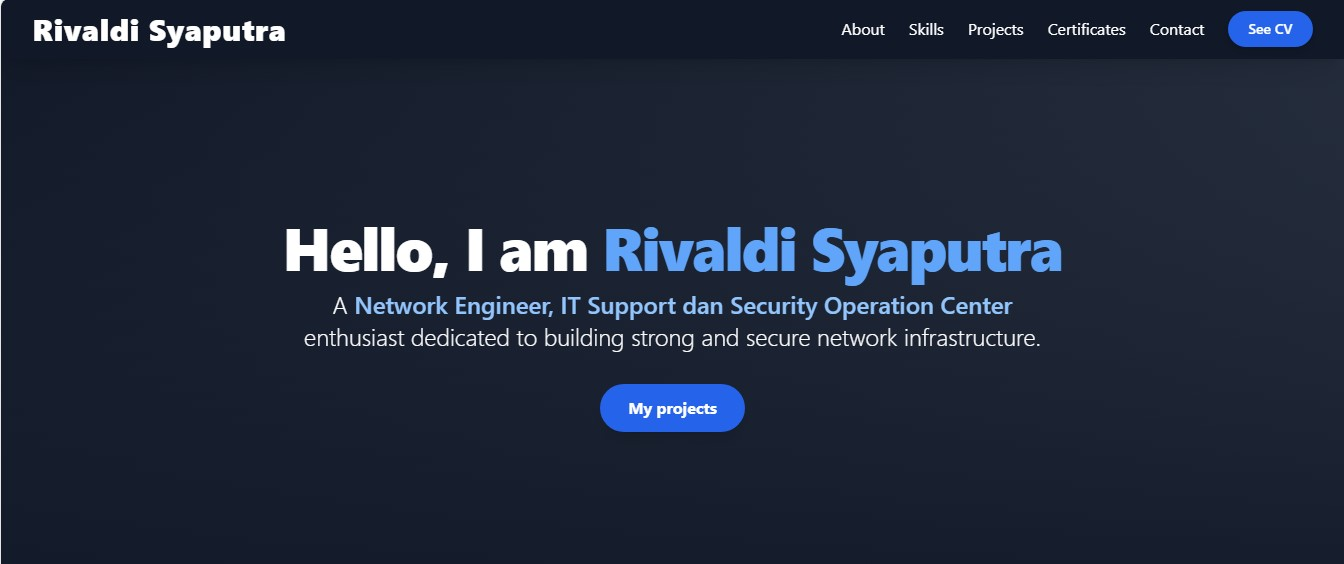
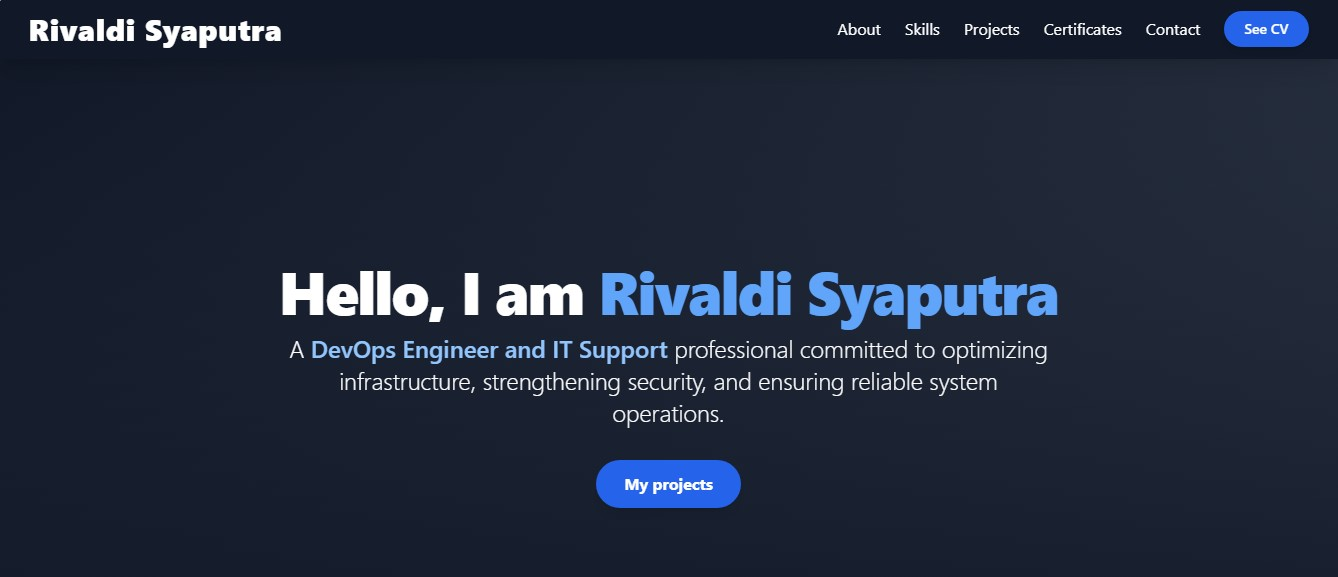
update portofolio

diff --git a/index.html b/index.html
@@ -99,7 +99,7 @@
                     Hello, I am <span class="text-blue-400 block sm:inline-block mt-2 sm:mt-0">Rivaldi Syaputra</span>
                 </h1>
                 <p class="text-xl md:text-2xl font-light mb-8 max-w-3xl animate-fadeInUp" style="animation-delay: 0.3s;">
-                    A  <span class="font-semibold text-blue-300">Network Engineer, IT Support dan Security Operation Center</span> enthusiast dedicated to building strong and secure network infrastructure.
+                    A  <span class="font-semibold text-blue-300">DevOps Engineer and IT Support </span> professional committed to optimizing infrastructure, strengthening security, and ensuring reliable system operations.
                 </p>
                 <a href="#projects" class="bg-blue-600 text-white text-base px-7 py-3 rounded-full font-bold hover:bg-blue-700 transition-all duration-300 transform hover:scale-105 shadow-lg hover:shadow-xl animate-fadeInUp" style="animation-delay: 0.6s;">
                     My projects
@@ -116,13 +116,16 @@
                     </div>
                     <div class="md:w-2/3 text-base leading-relaxed text-gray-700">
                         <p class="mb-3 text-base">
-                            Hello! I am Rivaldi Syaputra, a dedicated Network Engineer with solid experience in designing, implementing, and managing various scalable and secure network solutions. I have a deep interest in: Network Security, Infrastructure Automation, and System Performance Optimization.
+                           Hello! I am Rivaldi Syaputra, a dedicated DevOps Engineer and IT Support Specialist with strong experience in building, automating, and maintaining reliable IT infrastructures. I have a deep interest in Infrastructure Automation, System Monitoring, Cloud & Container Technologies, and IT Operations Support.
                         </p>
                         <p class="mb-3 text-base">
-                            With a strong understanding of protocols, network device management, and advanced troubleshooting, I always ensure that the systems I manage operate reliably, efficiently, and securely. I am also accustomed to using tools and technologies such as: Mikrotik, Cisco, Fortinet, Linux Networking & Firewalls (iptables, nftables), VLAN, VPN, QoS, IDS/IPS, as well as monitoring tools like Zabbix & Grafana.
+                            With a solid foundation in Linux system administration, networking, and troubleshooting, I ensure that applications and services run securely, efficiently, and with minimal downtime. I am experienced in using tools and technologies such as Docker, GitHub Actions, CI/CD Pipelines, Nginx, Apache, Linux Servers, Virtualization (VMware/VirtualBox), Monitoring with Prometheus & Grafana, and Helpdesk/IT Support workflows.
                         </p>
-                        <p class="text-base">
-                            Outside of the professional world, I enjoy the latest technology information, exploring new tools for network automation, and occasionally playing strategy games. I believe that learning is a lifelong process, and I am always looking for ways to grow and share with the technology community.
+                        <p class="mb-3 text-base">
+                            In the IT Support area, I have hands-on experience with hardware & software troubleshooting, user support, endpoint security, and network maintenance, ensuring smooth day-to-day operations for both teams and end-users
+                        </p>
+                        <p class="mb-3 text-base">
+                            Outside of work, I enjoy exploring new DevOps tools, learning about cloud-native technologies, and occasionally playing strategy games. I believe continuous learning and adaptability are key to staying relevant in today’s fast-evolving tech landscape, and I am eager to keep growing while contributing to the community.
                         </p>
                         <div class="mt-6 flex space-x-5">
                             <a href="https://linkedin.com/in/rivaldis12112000" target="_blank" class="text-blue-600 hover:text-blue-800 text-base font-medium flex items-center space-x-2 transition-colors social-icon-hover">
@@ -143,6 +146,26 @@
             <div class="container mx-auto px-6">
                 <h2 class="text-3xl md:text-4xl font-extrabold text-center mb-10 text-gray-900 leading-tight">Skills</h2>
                 <div class="grid grid-cols-1 sm:grid-cols-2 md:grid-cols-3 lg:grid-cols-4 xl:grid-cols-5 gap-6">
+                    <div class="flex flex-col items-center p-5 bg-gray-100 rounded-xl shadow-lg hover:shadow-2xl transition-all duration-300 transform hover:-translate-y-2 hover:scale-105 group border border-gray-200">
+                        <img src="./public/images/docker.png" alt="Cisco Logo" class="w-20 h-20 mb-3 object-contain filter grayscale group-hover:grayscale-0 transition-all duration-300">
+                        <p class="text-lg font-bold text-gray-900 group-hover:text-blue-600 transition-colors duration-300">Docker</p>
+                        <span class="text-xs text-gray-600 mt-1 text-center group-hover:text-gray-800 transition-colors duration-300">Containerization, Portabilitas, Automation & CI/CD</span>
+                    </div>
+                     <div class="flex flex-col items-center p-5 bg-gray-100 rounded-xl shadow-lg hover:shadow-2xl transition-all duration-300 transform hover:-translate-y-2 hover:scale-105 group border border-gray-200">
+                        <img src="./public/images/prometheus.png" alt="Cisco Logo" class="w-20 h-20 mb-3 object-contain filter grayscale group-hover:grayscale-0 transition-all duration-300">
+                        <p class="text-lg font-bold text-gray-900 group-hover:text-blue-600 transition-colors duration-300">Prometheus</p>
+                        <span class="text-xs text-gray-600 mt-1 text-center group-hover:text-gray-800 transition-colors duration-300">System monitoring & time-series database</span>
+                    </div>
+                     <div class="flex flex-col items-center p-5 bg-gray-100 rounded-xl shadow-lg hover:shadow-2xl transition-all duration-300 transform hover:-translate-y-2 hover:scale-105 group border border-gray-200">
+                        <img src="./public/images/grafana.png" alt="Cisco Logo" class="w-20 h-20 mb-3 object-contain filter grayscale group-hover:grayscale-0 transition-all duration-300">
+                        <p class="text-lg font-bold text-gray-900 group-hover:text-blue-600 transition-colors duration-300">Grafana</p>
+                        <span class="text-xs text-gray-600 mt-1 text-center group-hover:text-gray-800 transition-colors duration-300">Platform visualisasi data</span>
+                    </div>
+                    <div class="flex flex-col items-center p-5 bg-gray-100 rounded-xl shadow-lg hover:shadow-2xl transition-all duration-300 transform hover:-translate-y-2 hover:scale-105 group border border-gray-200">
+                        <img src="./public/images/Github.png" alt="Cisco Logo" class="w-20 h-20 mb-3 object-contain filter grayscale group-hover:grayscale-0 transition-all duration-300">
+                        <p class="text-lg font-bold text-gray-900 group-hover:text-blue-600 transition-colors duration-300">GitHub</p>
+                        <span class="text-xs text-gray-600 mt-1 text-center group-hover:text-gray-800 transition-colors duration-300">Source code + CI/CD pipeline</span>
+                    </div>
                     <div class="flex flex-col items-center p-5 bg-gray-100 rounded-xl shadow-lg hover:shadow-2xl transition-all duration-300 transform hover:-translate-y-2 hover:scale-105 group border border-gray-200">
                         <img src="./public/images/Cisco.png" alt="Cisco Logo" class="w-20 h-20 mb-3 object-contain filter grayscale group-hover:grayscale-0 transition-all duration-300">
                         <p class="text-lg font-bold text-gray-900 group-hover:text-blue-600 transition-colors duration-300">Cisco</p>
@@ -183,14 +206,40 @@
                         <p class="text-lg font-bold text-gray-900 group-hover:text-blue-600 transition-colors duration-300">REACT</p>
                         <span class="text-xs text-gray-600 mt-1 text-center group-hover:text-gray-800 transition-colors duration-300">FRAMEWORK</span>
                     </div>
-                    </div>
+                </div>
             </div>
         </section>
 
         <section id="projects" class="py-12 bg-gray-50 text-gray-800 animated-section min-h-[100vh] justify-center items-center relative flex">
             <div class="container mx-auto px-4">
                 <h2 class="text-2xl md:text-3xl font-extrabold text-center mb-8 text-gray-900 leading-tight">My Projects</h2>
+                
                 <div class="grid grid-cols-1 sm:grid-cols-2 lg:grid-cols-3 gap-6">
+                    <div class="bg-white rounded-xl shadow-md overflow-hidden transform hover:scale-[1.01] transition-all duration-300 border border-gray-100">
+                        <img src="./public/images/senam-otak.jpg" alt="Sistem Monitoring Jaringan Sederhana" class="w-full h-48 object-cover object-center">
+                        <div class="p-4">
+                            <h3 class="text-base font-bold mb-1.5 text-gray-900">Tryout Online V 1.0.0</h3>
+                            <p class="text-gray-700 text-xs mb-2 leading-snug">
+                                The development of this Online Tryout application aims to provide an accessible, interactive, and responsive web-based practice platform for users. It includes multiple test modules such as Tryout, Quiz, Precision games, and Color Blindness Test.
+                            <div class="flex flex-wrap gap-1 mb-3">
+                                <span class="bg-red-100 text-red-800 text-xs font-semibold px-1.5 py-1 rounded-full">REACT JS</span>
+                                <span class="bg-orange-100 text-orange-800 text-xs font-semibold px-1.5 py-1 rounded-full">JSON</span>
+                                <span class="bg-blue-100 text-blue-800 text-xs font-semibold px-1.5 py-1 rounded-full">CI/CD</span>
+                                <span class="bg-orange-100 text-orange-800 text-xs font-semibold px-1.5 py-1 rounded-full">JavaScript</span>
+                                <span class="bg-purple-100 text-purple-800 text-xs font-semibold px-1.5 py-1 rounded-full">Github Action</span>
+                                <span class="bg-orange-100 text-orange-800 text-xs font-semibold px-1.5 py-1 rounded-full">AWS CLOUD</span>
+                            </div>
+                            <div class="flex justify-between items-center pt-2 border-t border-gray-100">
+                                <a href="https://senam-otak.my.id/" target="_blank"  class="text-blue-600 hover:text-blue-800 font-bold text-xs flex items-center transition-colors">
+                                    View Details
+                                    <svg class="w-3 h-3 ml-1" fill="none" stroke="currentColor" viewBox="0 0 24 24" xmlns="http://www.w3.org/2000/svg"><path stroke-linecap="round" stroke-linejoin="round" stroke-width="2" d="M17 8l4 4m0 0l-4 4m4-4H3"></path></svg>
+                                </a>
+                                <a href="https://github.com/rivaldisyaputra" target="_blank" class="text-gray-600 hover:text-gray-900 transition-colors social-icon-hover">
+                                    <svg class="w-4 h-4" fill="currentColor" viewBox="0 0 24 24" xmlns="http://www.w3.org/2000/svg"><path fill-rule="evenodd" d="M12 2C6.477 2 2 6.477 2 12c0 4.419 2.865 8.165 6.839 9.48.5.09.682-.217.682-.483 0-.237-.008-.867-.013-1.7c-2.782.603-3.369-1.34-3.369-1.34-.454-1.157-1.109-1.464-1.109-1.464-.905-.618.068-.606.068-.606 1.002.071 1.529 1.03 1.529 1.03.89 1.527 2.336 1.086 2.9.829.091-.643.349-1.086.635-1.337-2.22-.253-4.555-1.11-4.555-4.943 0-1.09.39-1.984 1.029-2.684-.103-.253-.447-1.272.098-2.65 0 0 .84-.27 2.75 1.025.798-.222 1.644-.333 2.489-.336.845.003 1.691.114 2.489.336 1.909-1.295 2.747-1.025 2.747-1.025.546 1.378.202 2.397.098 2.65.64.7 1.029 1.594 1.029 2.684 0 3.843-2.339 4.686-4.568 4.935.359.309.678.92.678 1.855 0 1.337-.012 2.417-.012 2.753 0 .269.18.577.688.482C21.137 20.163 24 16.419 24 12c0-5.523-4.477-10-10-10z" clip-rule="evenodd"></path></svg>
+                                </a>
+                            </div>
+                        </div>
+                    </div>
                     <div class="bg-white rounded-xl shadow-md overflow-hidden transform hover:scale-[1.01] transition-all duration-300 border border-gray-100">
                         <img src="./public/images/web1.png" alt="Implementasi VLAN & Routing Inter-VLAN" class="w-full h-48 object-cover object-center">
                         <div class="p-4">
@@ -225,6 +274,9 @@
                             <div class="flex flex-wrap gap-1 mb-3">
                                 <span class="bg-red-100 text-red-800 text-xs font-semibold px-1.5 py-1 rounded-full">HTML</span>
                                 <span class="bg-orange-100 text-orange-800 text-xs font-semibold px-1.5 py-1 rounded-full">Tailwindcss</span>
+                                 <span class="bg-blue-100 text-blue-800 text-xs font-semibold px-1.5 py-1 rounded-full">CI/CD</span>
+                                <span class="bg-purple-100 text-purple-800 text-xs font-semibold px-1.5 py-1 rounded-full">Github Action</span>
+                                <span class="bg-orange-100 text-orange-800 text-xs font-semibold px-1.5 py-1 rounded-full">Netlify</span>
                             </div>
                             <div class="flex justify-between items-center pt-2 border-t border-gray-100">
                                 <a href="https://rivaldi12.netlify.app/" target="_blank" class="text-blue-600 hover:text-blue-800 font-bold text-xs flex items-center transition-colors">
